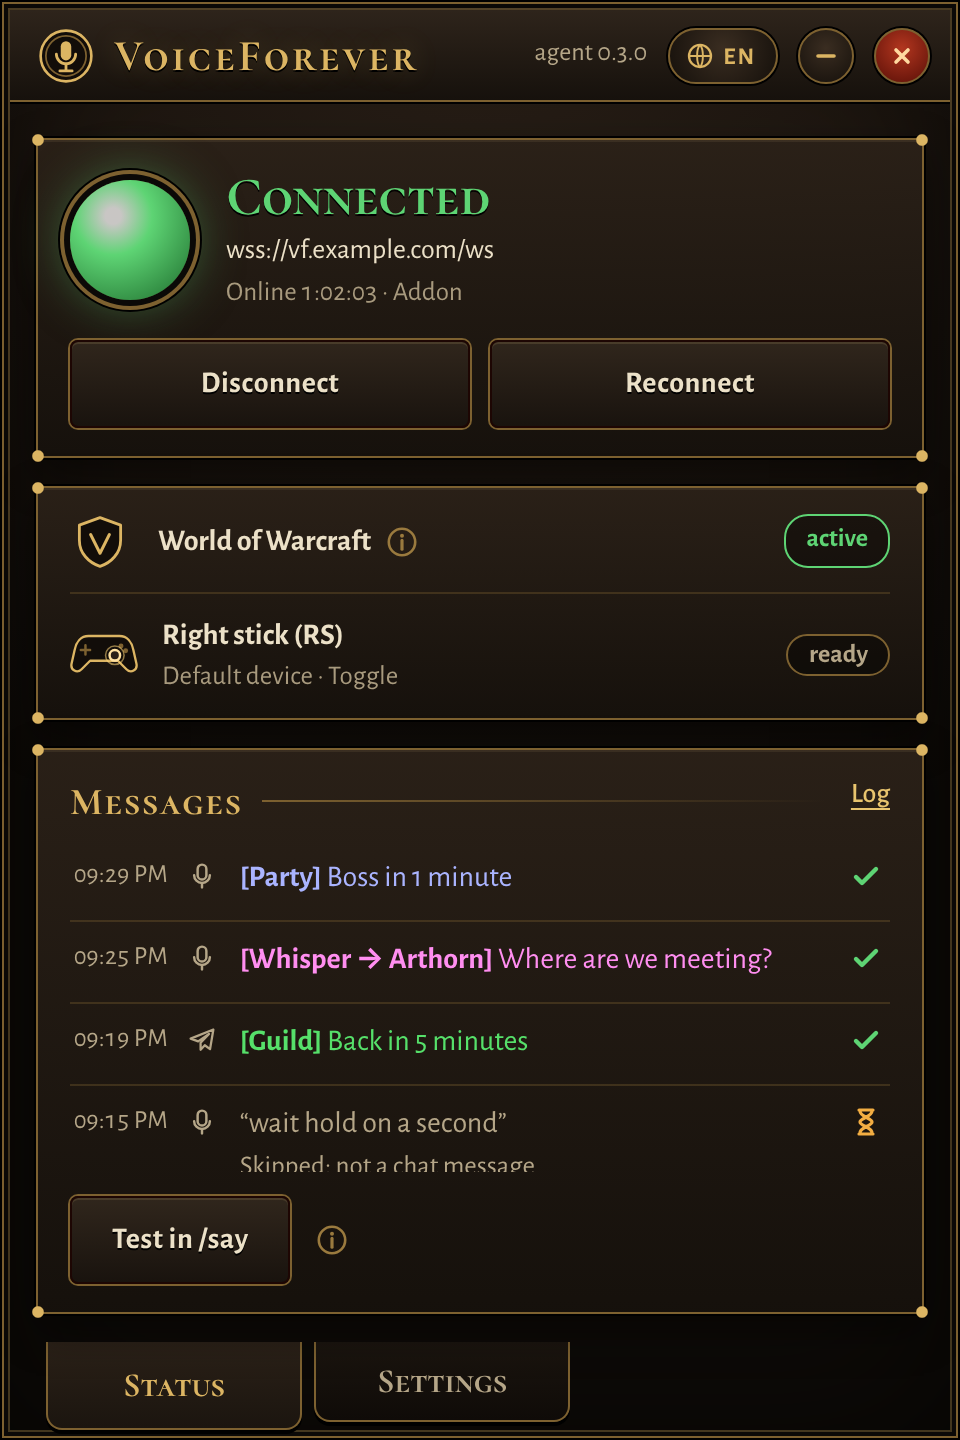
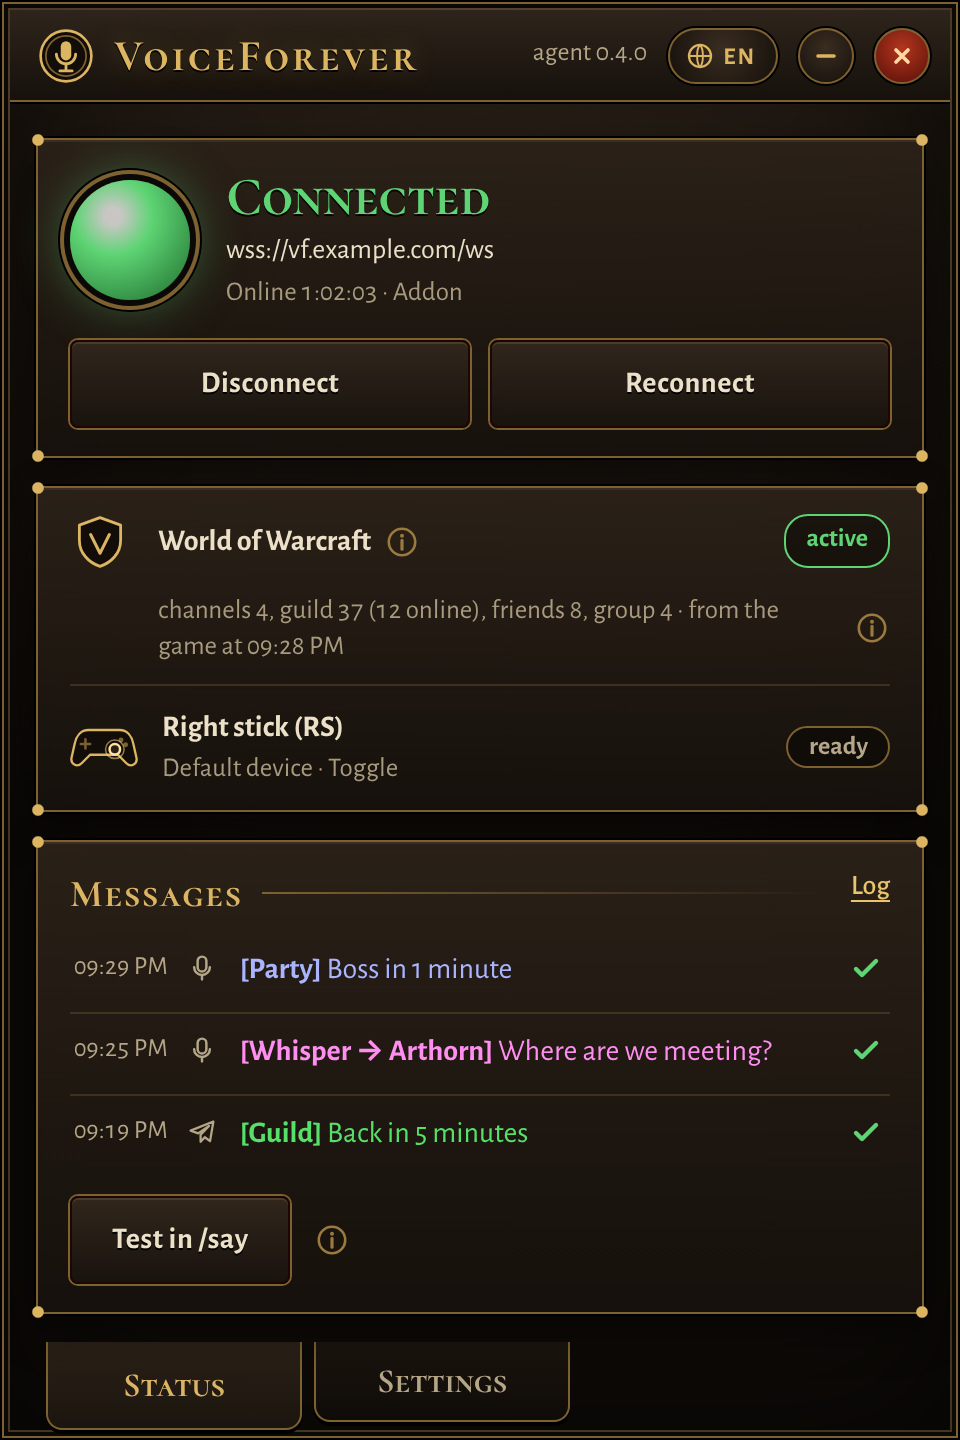
Docs and version 0.4.0 for names from the game
Claude-Session: https://claude.ai/code/session_016zcH5Sy22Q3NahCzqyNhqm

diff --git a/docs/images/render.py b/docs/images/render.py
@@ -90,6 +90,8 @@ CONFIG = {
     "mic_device": "",
     "max_record_s": 30,
     "ptt_sounds": True,
+    "game_context": True,
+    "live_context": True,
 }
 
 AGENT_STRINGS = strings(AGENT_LOCALES, LANG)
@@ -100,6 +102,9 @@ PAD_BUTTONS = [
 ]
 
 PAD = {"connected": True, "name": "Xbox Wireless Controller", "playstation": False, "error": ""}
+# Names and channels from the game, as the server has them.
+NAMES = {"source": "live", "at": T - 95, "me": "Kirill-Flamegor",
+         "counts": {"channels": 4, "group": 4, "guild": 37, "guild_online": 12, "friends": 8, "recent": 5}}
 MICS = ["Headset Microphone (Xbox Wireless Headset)", "Microphone (Realtek High Definition Audio)"]
 
 
@@ -130,7 +135,7 @@ def agent_state(first_run: bool) -> dict:
         "system_lang": LANG,
         "strings": AGENT_STRINGS,
         "languages": [{"code": code, "name": name} for code, name in LANGUAGES.items()],
-        "version": "0.3.0",
+        "version": "0.4.0",
         "configured": not first_run,
         "first_run": first_run,
         "config": CONFIG,
@@ -146,6 +151,7 @@ def agent_state(first_run: bool) -> dict:
         "pad": PAD,
         "recording": {"state": "idle", "started_at": None, "max_s": 30},
         "bind_check": None,
+        "names": NAMES if not first_run else {"source": "", "at": None, "me": "", "counts": {}},
         "pad_buttons": PAD_BUTTONS,
     }
 

diff --git a/server/vf_server/__init__.py b/server/vf_server/__init__.py
@@ -1,3 +1,3 @@
 """VoiceForever server: Telegram voice -> speech-to-text -> Claude routing -> desktop agent."""
 
-__version__ = "0.3.0"
+__version__ = "0.4.0"

diff --git a/agent/vf_agent/__init__.py b/agent/vf_agent/__init__.py
@@ -1,3 +1,3 @@
 """VoiceForever desktop agent for Windows."""
 
-__version__ = "0.3.0"
+__version__ = "0.4.0"

diff --git a/docs/addon.md b/docs/addon.md
@@ -19,6 +19,7 @@ The addon is built for interface 16001. If the game calls it out of date after a
 | `/vf test` | sends a test line to your group |
 | `/vf ptt` | shows the push-to-talk button and mode |
 | `/vf ptt off` | gives the push-to-talk button back to the game |
+| `/vf names` | shows what the addon collected for the server: channels and how many nicknames |
 
 The default agent hotkey is `CTRL-SHIFT-F12`.
 
@@ -26,6 +27,14 @@ The default agent hotkey is `CTRL-SHIFT-F12`.
 
 The addon takes the gamepad button the app records with (an override binding), so the game's own action on it is paused while the addon is on. The in-game check in the Windows app sets this up: see [Voice from the gamepad](agent.md#voice-from-the-gamepad).
 
+## Names and channels
+
+The addon collects what helps the server spell nicknames and find chat channels: the channels you joined (number and name), your group, guild members online or seen in the last 14 days (up to 300), your friends list (and Battle.net friends playing WoW Forever), the last 20 people you whispered with, the last 30 people who wrote in say, yell, group, guild or a custom channel, and your target. It keeps only who, where and when: the text of other players' messages is never kept.
+
+The snapshot reaches the app two ways: in the addon's saved file, which the game writes on `/reload` and logout, and live, when you start a recording: the app asks the addon for it, the addon puts it into its input field, and the app copies it with Ctrl+C (addons cannot use the clipboard themselves). The app sends it to your server, which keeps it in memory only. You can turn both off in the app's settings.
+
+With it you can say "в канал Рейдеры, …" (channel Raiders) and the addon finds the channel's number when it sends, so a channel that moved to another number still works. If you are not in that channel, the addon says so and sends nothing.
+
 ## Line format
 
-The app types `VF:<channel>:<target>:<text>`, for example `VF:whisper:Arthorn:On my way`. Channels: `say`, `yell`, `emote`, `group` (party, raid or instance, whichever you are in), `party`, `raid`, `raid_warning`, `instance`, `guild`, `officer`, `whisper`, `reply` (the last person who whispered you), `channel` (target is the channel number).
+The app types `VF:<channel>:<target>:<text>`, for example `VF:whisper:Arthorn:On my way`. Channels: `say`, `yell`, `emote`, `group` (party, raid or instance, whichever you are in), `party`, `raid`, `raid_warning`, `instance`, `guild`, `officer`, `whisper`, `reply` (the last person who whispered you), `channel` (target is the channel number or name). `VF:export:<nonce>:` asks for the names snapshot: the addon answers with `VFX1 <nonce> <json>` in its field, selected.

diff --git a/docs/agent.md b/docs/agent.md
@@ -45,6 +45,12 @@ The server recognises the speech the same way as Telegram voice messages, and Cl
 
 The agent reads the gamepad and the microphone through [SDL3](https://libsdl.org) (zlib license); `SDL3.dll` is already inside the exe. Gamepad voice works in the windowed app only; `--headless` does not enable it.
 
+## Names from the game
+
+With the addon, the agent sends the server your chat channels and the nicknames of your group, guild, friends and recent whispers (see [Names and channels](addon.md#names-and-channels)). Speech recognition then spells nicknames as the game does, Claude picks whisper targets from them, and you can name a channel ("в канал Рейдеры, …"). The status tab shows what the server has and from when.
+
+The agent reads the addon's saved file whenever the game writes it (`/reload`, logout), and when a recording starts it copies fresh names from the addon while you speak (at most every 20 s; it types a line into the addon's field and presses Ctrl+C, which takes a fraction of a second). Settings → Names from the game turns this off (`game_context`, `live_context`); the server then forgets the names. The server keeps them in memory only and never logs them.
+
 ## Language
 
 The window, the tray and the messages speak English, Russian, German, Spanish and French. The agent starts in the Windows display language (English if it is none of these) and you can switch it with the globe button in the title bar or in Settings → App. In `config.toml` it is `language = ""` (follow Windows) or one of `en`, `ru`, `de`, `es`, `fr`.

diff --git a/docs/telegram-bot.md b/docs/telegram-bot.md
@@ -11,11 +11,14 @@ Send the bot a voice message and it types it into the game chat through the Wind
 | `/confirm on\|off` | show the message with buttons before sending it |
 | `/style like an orc shaman` | rewrite messages in a style (or "translate to English"); `/style off` turns it off |
 | `/names Arthorn, Liana` | character names you mention often (helps recognition) |
+| `/channels` | the chat channels the Windows app sent from the game; say "channel Raiders, …" to write to one |
 | `/panel` | pin the control panel: app connected or not, channel, confirmation, style, language |
 | `/widgets on\|off` | cards and the panel, or plain text buttons |
 | `/language` (or `/lang`) | the bot's language: English, Russian, German, Spanish or French |
 
 Without a channel in the phrase, Claude continues the conversation in the channel you used in the last 5 minutes, otherwise it takes the default channel.
+
+With the addon, the Windows app also sends the nicknames of your group, guild, friends and recent whispers, and your chat channels: recognition spells those nicknames right, "whisper Arthorn" finds "Arthorn-Realm", and "reply to Arthorn, …" whispers him. `/status` shows how many the server has.
 
 ## Widgets
 

diff --git a/docs/server.md b/docs/server.md
@@ -121,6 +121,8 @@ Any service with an OpenAI-compatible `/audio/transcriptions` works:
 
 `VF_STT_LANGUAGE` locks recognition to one language (a code such as `en` or `ru`); when it is empty, the model detects the spoken language. `VF_STT_PROMPT` is a hint with words that recognition often gets wrong, such as game slang or character names.
 
+The hint also gets up to 30 nicknames: the player's `/names`, then the likeliest ones from the game (the people they whisper with, their group, guild and friends online) and the names of their chat channels. Whisper models read only about 224 tokens of hint, so the list stays short. The nicknames from the game live in the server's memory only: a restart forgets them until the Windows app sends them again, and the log shows only how many there are.
+
 ## Claude
 
 Claude picks the chat channel, removes the routing words and fixes punctuation. The default model is `claude-opus-5-5` with `effort=low`, with server-side fallbacks in case the model refuses. If Claude is unavailable or answers in the wrong format, a simple keyword parser takes over (it knows Russian phrases such as «в пати…», «шепни…»), so the message still goes out.
